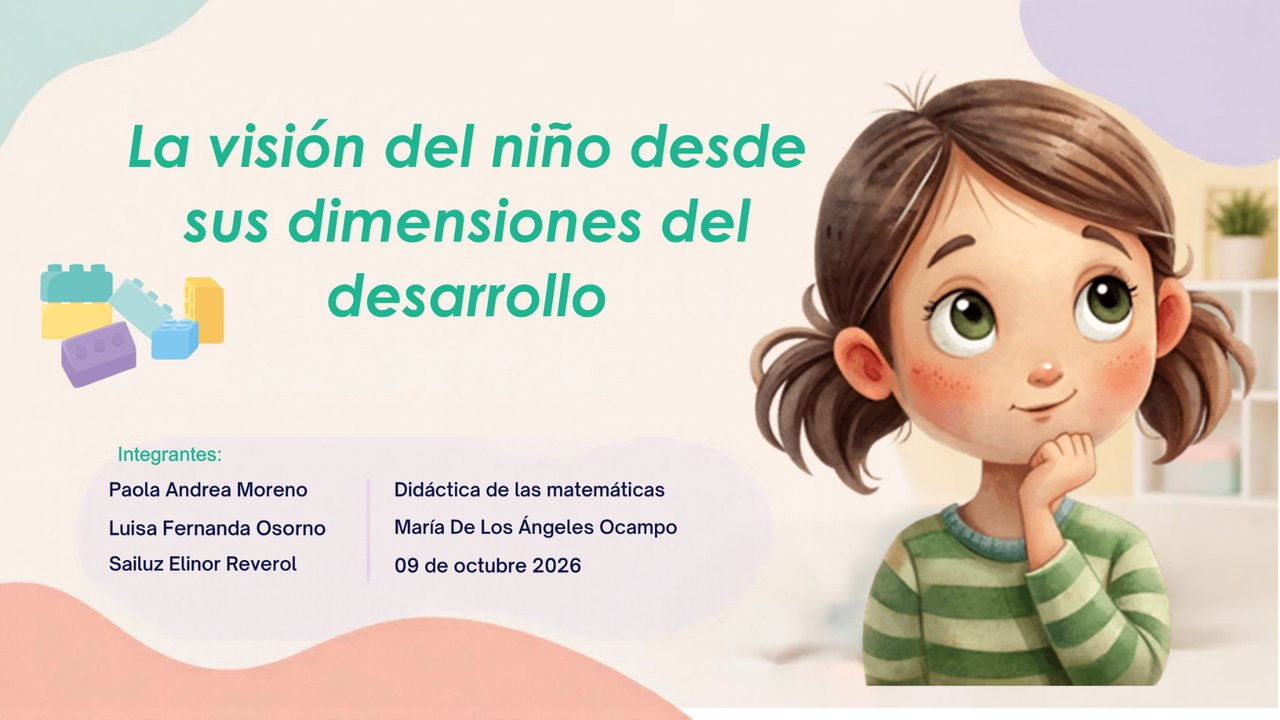
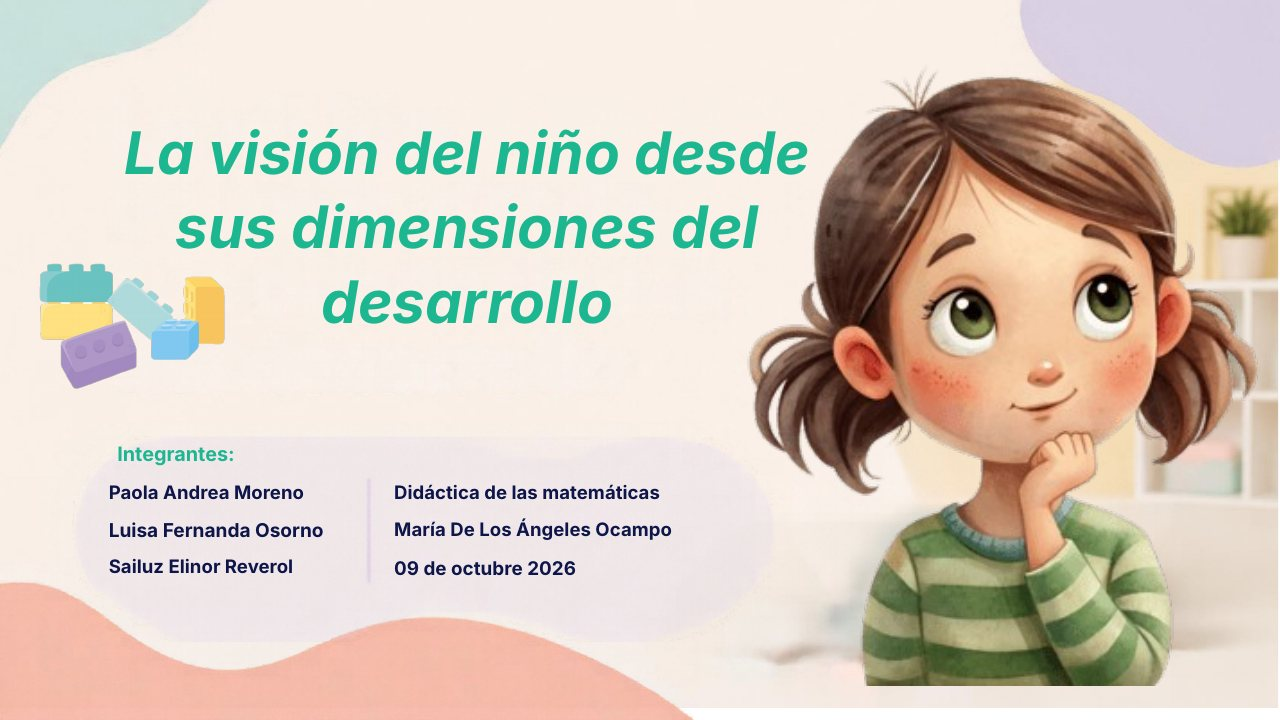
Exposición 4: carrusel con las 10 diapositivas reales
Claude-Session: https://claude.ai/code/session_01Naga49HoLdT85NfZSuZApQ

diff --git a/js/exposiciones.js b/js/exposiciones.js
@@ -119,7 +119,15 @@
       pantalla: true,
       imagenes: [
         { src: 'img/expo4/s01.jpg', alt: 'Portada: La visión del niño desde sus dimensiones del desarrollo, con las integrantes Paola Andrea Moreno, Luisa Fernanda Osorno y Sailuz Elinor Reverol' },
-        { src: 'img/expo4/s02.jpg', alt: 'Índice: juego de la telaraña, el desarrollo infantil es integral, dimensiones socioafectiva, corporal, cognitiva, comunicativa, estética, espiritual y ética, conclusión, actividad evaluativa y referencias' }
+        { src: 'img/expo4/s02.jpg', alt: 'Índice: juego de la telaraña, el desarrollo infantil es integral, dimensiones socioafectiva, corporal, cognitiva, comunicativa, estética, espiritual y ética, conclusión, actividad evaluativa y referencias' },
+        { src: 'img/expo4/s03.jpg', alt: 'La telaraña: niños jugando junto a una telaraña dibujada en rojo' },
+        { src: 'img/expo4/s04.jpg', alt: 'El desarrollo infantil es integral: todas las dimensiones se desarrollan al mismo tiempo, cada niño es único y hay que mirarlo en su totalidad' },
+        { src: 'img/expo4/s05.jpg', alt: 'Dimensión socioafectiva y dimensión corporal' },
+        { src: 'img/expo4/s06.jpg', alt: 'Dimensión cognitiva y dimensión comunicativa' },
+        { src: 'img/expo4/s07.jpg', alt: 'Dimensiones estética, espiritual y ética' },
+        { src: 'img/expo4/s08.jpg', alt: 'Conclusión: el desarrollo integral se construye con la conexión entre todas las dimensiones' },
+        { src: 'img/expo4/s09.jpg', alt: 'Actividad evaluativa' },
+        { src: 'img/expo4/s10.jpg', alt: 'Referencias: Ministerio de Educación Nacional (1998), Lineamientos pedagógicos para la educación preescolar' }
       ],
       diapositivas: 'https://aulasvirtuales.uniquindio.edu.co/mod/resource/view.php?id=2890112'
     }

diff --git a/exposiciones.html b/exposiciones.html
@@ -286,6 +286,6 @@
   </footer>
 
   <script src="js/menu.js"></script>
-  <script src="js/exposiciones.js?v=7"></script>
+  <script src="js/exposiciones.js?v=8"></script>
 </body>
 </html>
